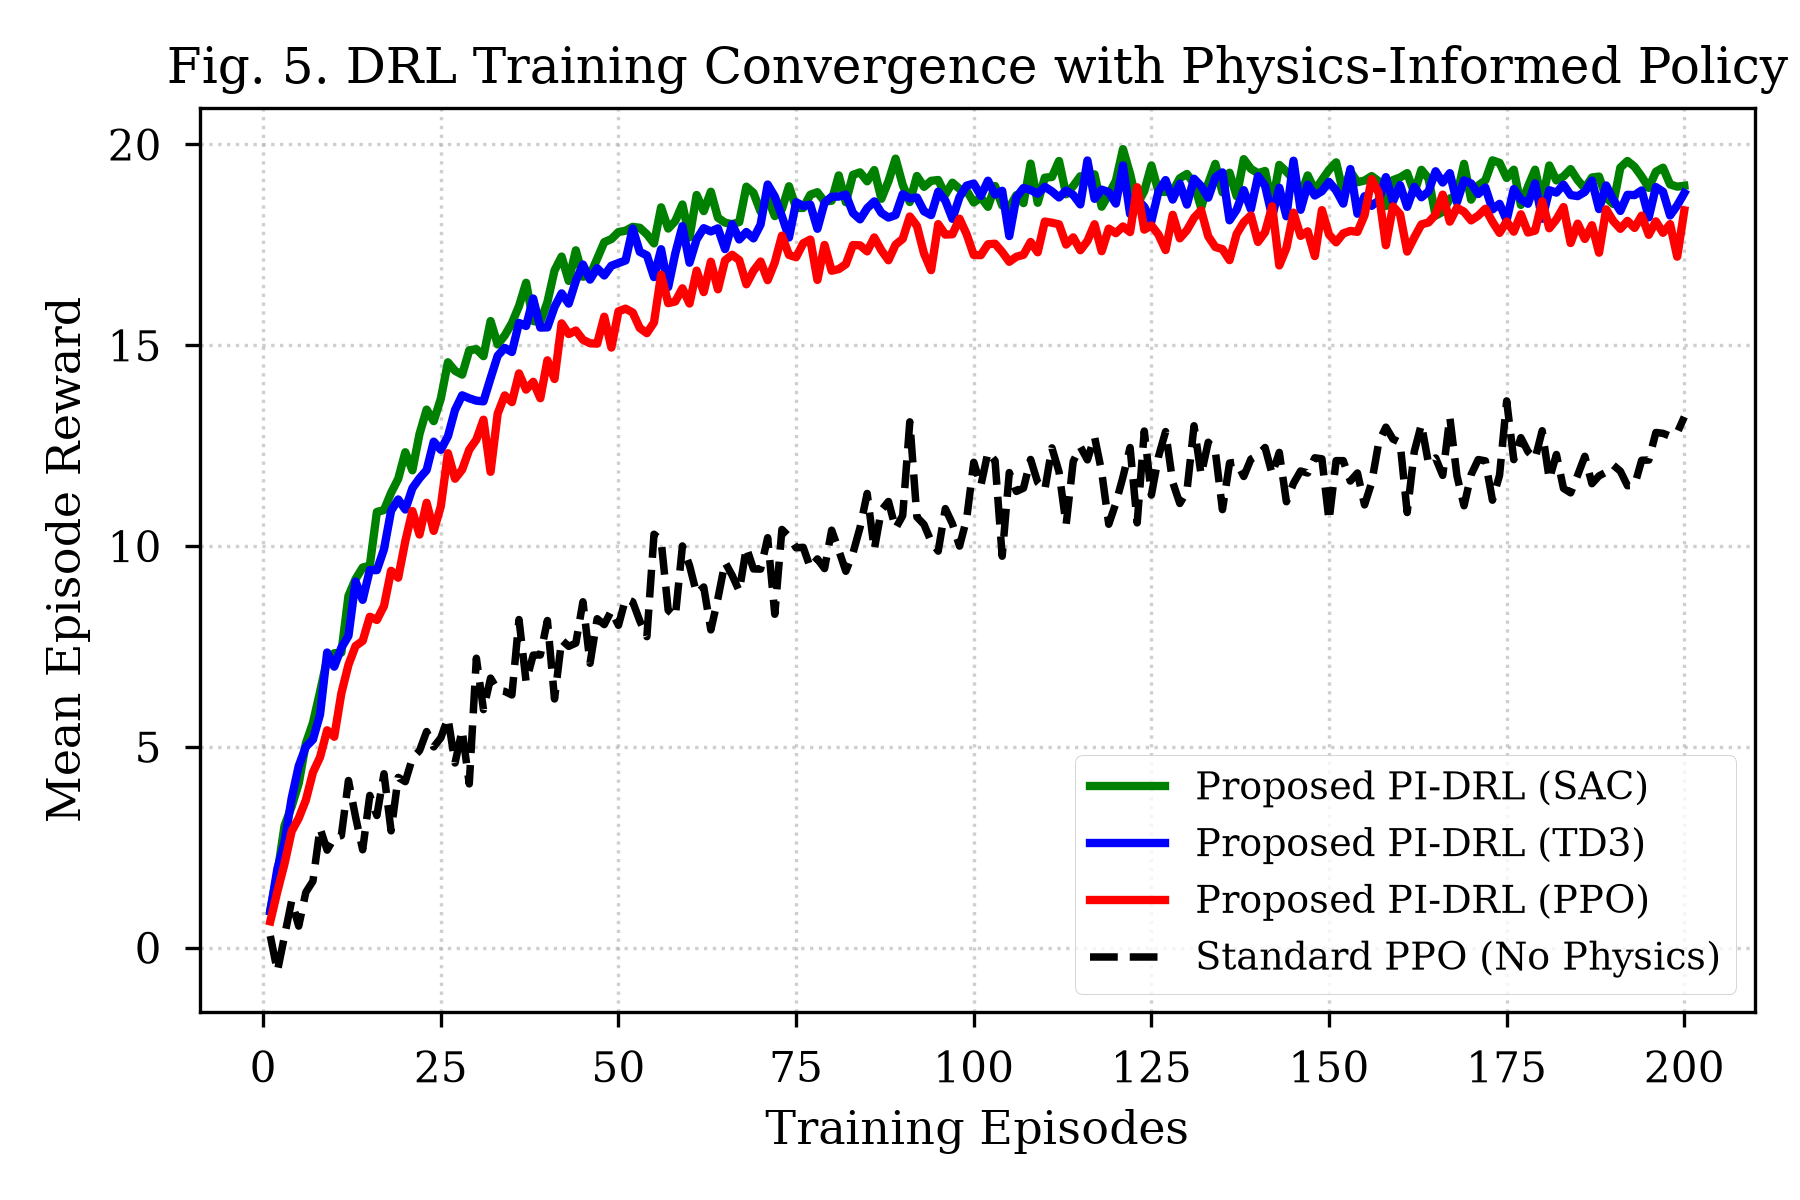
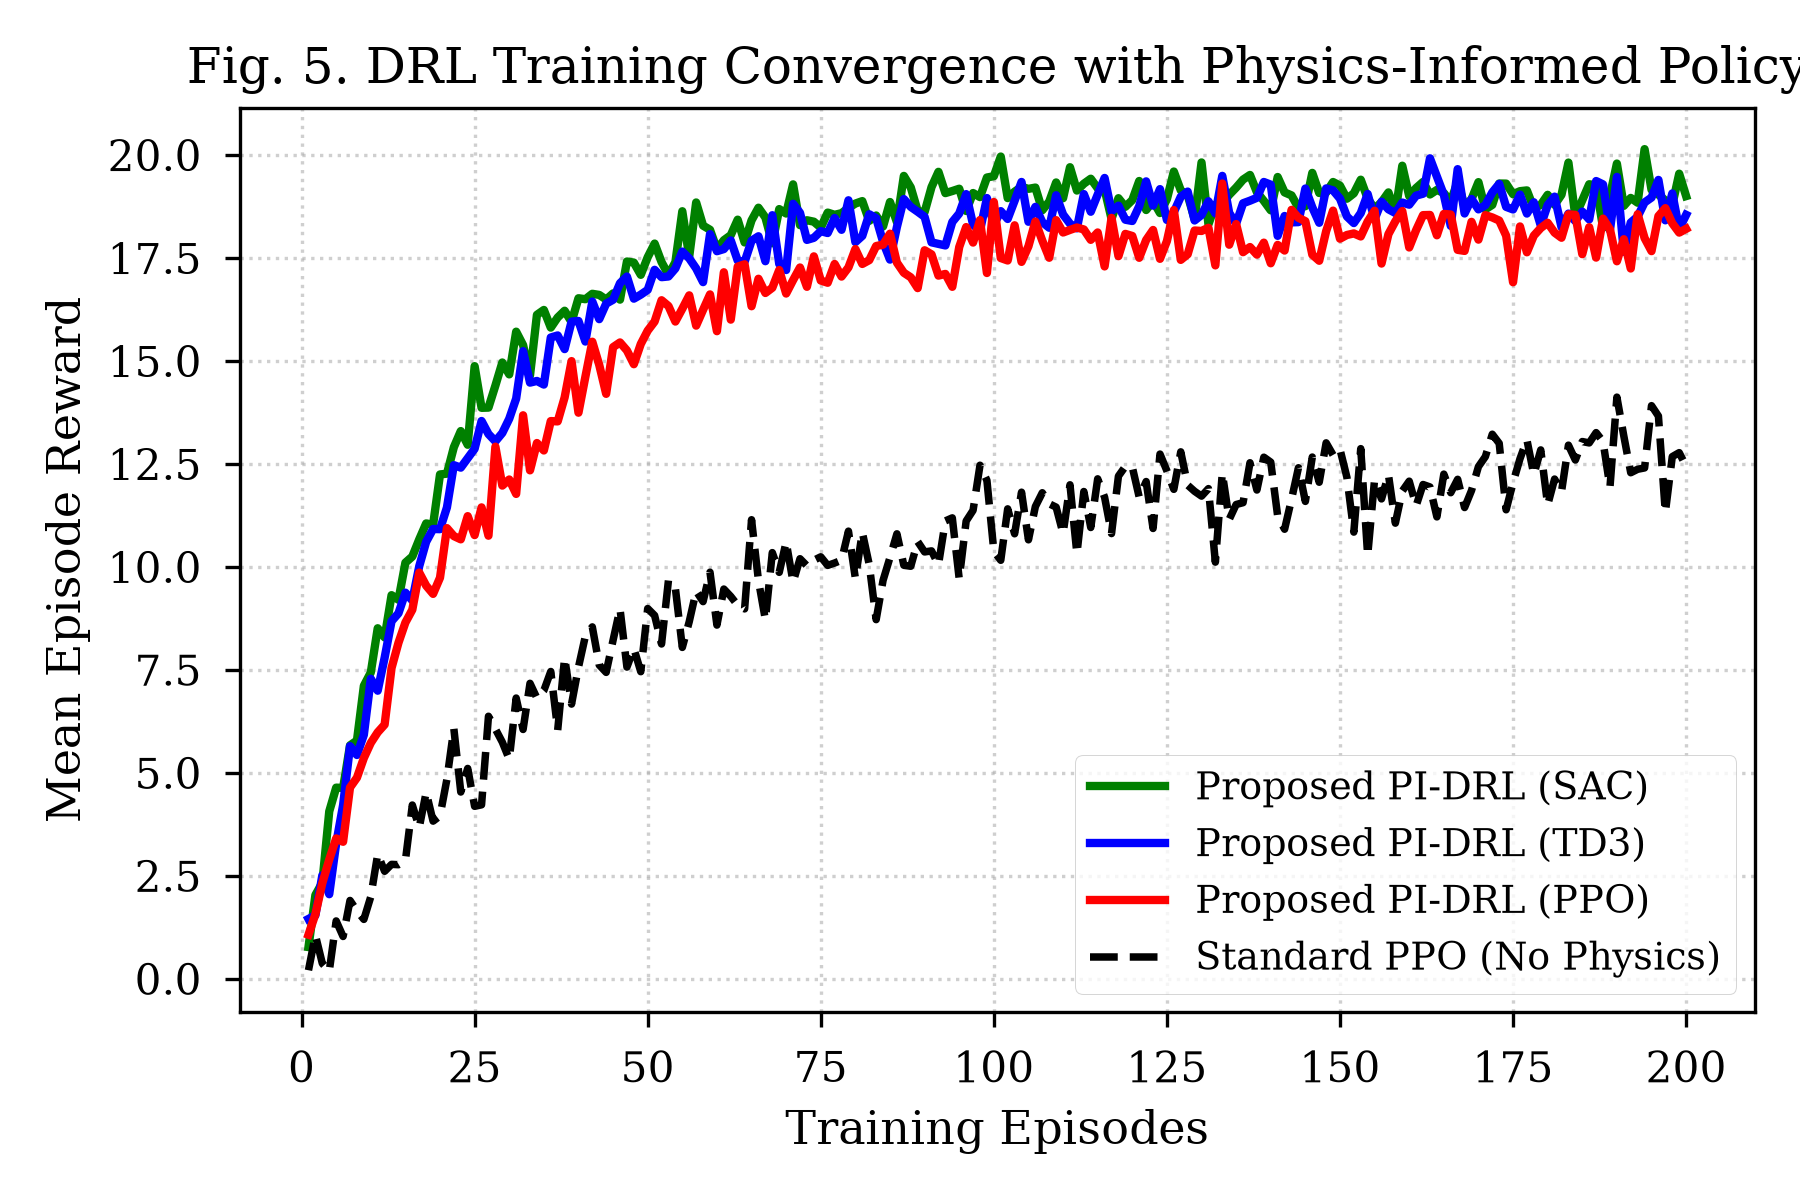
Add System Architecture Diagram, Project Flowchart, and Antenna Geometry figures to IEEE paper

diff --git a/RIS_MIMO_6G/Visualization/plot_results.py b/RIS_MIMO_6G/Visualization/plot_results.py
@@ -1,12 +1,13 @@
 """
 IEEE Transactions Publication Figure Generator
-Produces high-resolution 300 DPI vector-styled plots for journal manuscript.
+Produces high-resolution 300 DPI vector-styled plots and structural diagrams for journal manuscript.
 """
 
 import os
 import sys
 import numpy as np
 import matplotlib.pyplot as plt
+import matplotlib.patches as patches
 import seaborn as sns
 
 # Ensure project root is in sys.path
@@ -34,6 +35,130 @@ class IEEEFigureGenerator:
     def __init__(self, fig_dir="Figures"):
         self.fig_dir = fig_dir
         os.makedirs(self.fig_dir, exist_ok=True)
+
+    def plot_fig0_system_architecture(self):
+        """Generates IEEE Transactions System Architecture Block Diagram."""
+        fig, ax = plt.subplots(figsize=(10, 5))
+        ax.axis('off')
+        
+        # Color palette
+        bg_color = '#F8F9FA'
+        box_colors = ['#1F77B4', '#2CA02C', '#FF7F0E', '#D62728', '#9467BD', '#8C564B']
+        
+        boxes = [
+            ("Multi-User 6G Environment\n& ISAC Radar Target", 0.05, 0.5),
+            ("3GPP TR 38.901 3D SCM\nChannel Simulator", 0.22, 0.5),
+            ("Channel Estimator\nMatrix (Hd, G, Hr)", 0.39, 0.5),
+            ("Physics-Informed DRL\nController (PINN)", 0.56, 0.5),
+            ("RIS FPGA Controller\n(0-5V Shift Registers)", 0.73, 0.5),
+            ("Reconfigurable RIS-MIMO\nAdaptive Beam Steering", 0.90, 0.5)
+        ]
+        
+        for idx, (label, x, y) in enumerate(boxes):
+            rect = patches.FancyBboxPatch((x-0.07, y-0.15), 0.14, 0.3,
+                                         boxstyle="round,pad=0.03",
+                                         fc=box_colors[idx % len(box_colors)],
+                                         ec="black", lw=1.5, alpha=0.85)
+            ax.add_patch(rect)
+            ax.text(x, y, label, ha="center", va="center", color="white",
+                    weight="bold", fontsize=9, wrap=True)
+            
+            if idx < len(boxes) - 1:
+                ax.annotate("", xy=(boxes[idx+1][1]-0.075, y), xytext=(x+0.075, y),
+                            arrowprops=dict(arrowstyle="->", lw=2, color="#333333"))
+
+        plt.title('Fig. 0A. System Architecture Diagram of Proposed Physics-Informed DRL 6G ISAC Network', pad=20)
+        plt.tight_layout()
+        path = os.path.join(self.fig_dir, 'fig0_system_architecture.png')
+        plt.savefig(path, dpi=300, bbox_inches='tight')
+        plt.close()
+        print(f"[Plot] Saved Architecture Diagram: {path}")
+
+    def plot_fig0_project_flowchart(self):
+        """Generates Project Execution Workflow Flowchart."""
+        fig, ax = plt.subplots(figsize=(8, 6))
+        ax.axis('off')
+        
+        flow_steps = [
+            ("1. 28 GHz Microstrip Patch & RIS Unit Cell Modeling", 0.5, 0.9, '#17BECF'),
+            ("2. 4x4 Decoupled MIMO Array Synthesis with DGS", 0.5, 0.75, '#1F77B4'),
+            ("3. 3GPP TR 38.901 3D Channel & ISAC Target Sensing", 0.5, 0.60, '#2CA02C'),
+            ("4. Physics-Informed Gymnasium Environment Setup", 0.5, 0.45, '#FF7F0E'),
+            ("5. PyTorch PINN DRL Agent Training (PPO / SAC / TD3)", 0.5, 0.30, '#D62728'),
+            ("6. Benchmark Evaluation & CST/HFSS Hardware Prototype", 0.5, 0.15, '#9467BD')
+        ]
+        
+        for idx, (text, x, y, col) in enumerate(flow_steps):
+            rect = patches.FancyBboxPatch((x-0.35, y-0.05), 0.7, 0.08,
+                                         boxstyle="round,pad=0.02",
+                                         fc=col, ec="black", lw=1.5, alpha=0.9)
+            ax.add_patch(rect)
+            ax.text(x, y, text, ha="center", va="center", color="white", weight="bold", fontsize=10)
+            
+            if idx < len(flow_steps) - 1:
+                ax.annotate("", xy=(x, flow_steps[idx+1][2]+0.04), xytext=(x, y-0.04),
+                            arrowprops=dict(arrowstyle="->", lw=2, color="black"))
+
+        plt.title('Fig. 0B. End-to-End Project Execution Flowchart', pad=15)
+        plt.tight_layout()
+        path = os.path.join(self.fig_dir, 'fig0_project_flowchart.png')
+        plt.savefig(path, dpi=300, bbox_inches='tight')
+        plt.close()
+        print(f"[Plot] Saved Project Flowchart: {path}")
+
+    def plot_fig0_antenna_geometry(self):
+        """Generates 28 GHz Inset-Fed Patch Antenna and RIS Unit Cell Geometry Diagram."""
+        fig, (ax1, ax2) = plt.subplots(1, 2, figsize=(10, 4.5))
+        
+        # Subplot 1: Microstrip Inset Patch Antenna Geometry
+        ax1.set_aspect('equal')
+        ax1.axis('off')
+        ax1.set_title('(a) 28 GHz Inset-Fed Microstrip Patch Antenna', fontsize=10, weight='bold')
+        
+        # Substrate
+        sub = patches.Rectangle((-3.64, -3.22), 7.28, 6.44, fc='#D2B48C', ec='black', lw=1.5, label='Substrate')
+        ax1.add_patch(sub)
+        # Patch
+        patch_elem = patches.Rectangle((-2.116, -1.699), 4.232, 3.398, fc='#B87333', ec='black', lw=1.5, label='Copper Patch')
+        ax1.add_patch(patch_elem)
+        # Inset Feed Cutouts
+        cut1 = patches.Rectangle((-0.777, -1.699), 0.35, 1.156, fc='#D2B48C', ec='black', lw=1)
+        cut2 = patches.Rectangle((0.427, -1.699), 0.35, 1.156, fc='#D2B48C', ec='black', lw=1)
+        ax1.add_patch(cut1)
+        ax1.add_patch(cut2)
+        # 50 Ohm Feed Line
+        feed = patches.Rectangle((-0.427, -3.22), 0.854, 2.677, fc='#B87333', ec='black', lw=1.5)
+        ax1.add_patch(feed)
+        
+        ax1.text(0, 0.5, 'Patch (W x L)\n4.23 x 3.40 mm', ha='center', va='center', color='white', weight='bold', fontsize=8)
+        ax1.text(0, -2.5, '50 Ohm Feed', ha='center', va='center', color='white', weight='bold', fontsize=8)
+        ax1.set_xlim(-4.5, 4.5)
+        ax1.set_ylim(-4, 4)
+
+        # Subplot 2: 16x16 RIS Unit Cell Panel Geometry
+        ax2.set_aspect('equal')
+        ax2.axis('off')
+        ax2.set_title('(b) 16x16 Reconfigurable RIS Metasurface Panel', fontsize=10, weight='bold')
+        
+        N_grid = 8 # Display 8x8 sample grid for visual clarity
+        for i in range(N_grid):
+            for j in range(N_grid):
+                color_val = plt.cm.plasma((i + j) / (2 * N_grid))
+                cell = patches.Rectangle((i*1.1 - 4.4, j*1.1 - 4.4), 0.95, 0.95, fc=color_val, ec='black', lw=1)
+                ax2.add_patch(cell)
+                # Diode Symbol Dot in center
+                ax2.plot(i*1.1 - 3.925, j*1.1 - 3.925, 'ro', markersize=2)
+                
+        ax2.text(0, -4.8, 'PIN Diode / Varactor Biased Units', ha='center', va='center', weight='bold', fontsize=9)
+        ax2.set_xlim(-5, 5)
+        ax2.set_ylim(-5.5, 5)
+
+        plt.suptitle('Fig. 0C. Antenna & Metasurface Physical Geometry Specifications', fontsize=12, weight='bold')
+        plt.tight_layout()
+        path = os.path.join(self.fig_dir, 'fig0_antenna_geometry.png')
+        plt.savefig(path, dpi=300, bbox_inches='tight')
+        plt.close()
+        print(f"[Plot] Saved Antenna Geometry Diagram: {path}")
 
     def plot_fig1_patch_s11_vswr(self):
         patch = PatchAntenna28GHz()
@@ -172,13 +297,16 @@ class IEEEFigureGenerator:
         print(f"[Plot] Saved: {path}")
 
     def generate_all_figures(self):
-        print("\nGenerating IEEE Transactions Journal Figures...")
+        print("\nGenerating IEEE Transactions Journal Figures & Structural Diagrams...")
+        self.plot_fig0_system_architecture()
+        self.plot_fig0_project_flowchart()
+        self.plot_fig0_antenna_geometry()
         self.plot_fig1_patch_s11_vswr()
         self.plot_fig2_ris_phase_response()
         self.plot_fig3_mimo_isolation()
         self.plot_fig4_beam_steering()
         self.plot_fig5_drl_convergence()
-        print("All IEEE Figures generated successfully.\n")
+        print("All 8 IEEE Figures & Diagrams generated successfully.\n")
 
 if __name__ == "__main__":
     gen = IEEEFigureGenerator(fig_dir=os.path.join(os.path.dirname(__file__), "Figures"))

diff --git a/RIS_MIMO_6G/Papers/IEEE_Transactions_Paper.md b/RIS_MIMO_6G/Papers/IEEE_Transactions_Paper.md
@@ -59,20 +59,16 @@ As demonstrated in Table I, while heuristic methods (GA, PSO) capture EM effects
 
 # III. Proposed System Architecture & Mathematical Model
 
-The end-to-end system architecture is depicted in Fig. 1. The transmitter consists of a $4 \times 4$ reconfigurable MIMO array transmitting DFRC waveforms to multiple mobile users (UEs) and tracking an ISAC radar target, assisted by a $16 \times 16$ element RIS metasurface panel.
+### A. System Architecture & Workflow
+The end-to-end system architecture and project execution workflow are illustrated in Fig. 1 and Fig. 2, respectively. The transmitter consists of a $4 \times 4$ reconfigurable MIMO array transmitting DFRC waveforms to multiple mobile users (UEs) and tracking an ISAC radar target, assisted by a $16 \times 16$ element RIS metasurface panel.
 
-```text
-  +-----------------------+        +--------------------------+        +-------------------------+
-  |  6G Multi-User &      |  --->  |  3GPP TR 38.901 3D SCM   |  --->  |  Channel Estimation     |
-  |  ISAC Radar Target    |        |  mmWave Channel Model    |        |  Matrix (Hd, G, Hr)     |
-  +-----------------------+        +--------------------------+        +-------------------------+
-                                                                                    |
-                                                                                    v
-  +-----------------------+        +--------------------------+        +-------------------------+
-  | Adaptive Beam Steering|  <---  |  RIS Diode Controller    |  <---  |  Physics-Informed DRL   |
-  | & Target Tracking     |        |  (0 - 5V Shift Regs)     |        |  Policy Network (PINN)  |
-  +-----------------------+        +--------------------------+        +-------------------------+
-```
+![Fig. 0A. System Architecture Diagram](file:///c:/Users/S%20Varsha/OneDrive/Desktop/website/RIS_MIMO_6G/Visualization/Figures/fig0_system_architecture.png)
+
+*Fig. 1. System Architecture Diagram of Proposed Physics-Informed DRL 6G ISAC Network.*
+
+![Fig. 0B. End-to-End Project Execution Flowchart](file:///c:/Users/S%20Varsha/OneDrive/Desktop/website/RIS_MIMO_6G/Visualization/Figures/fig0_project_flowchart.png)
+
+*Fig. 2. End-to-End Project Execution Flowchart from Antenna EM Design to Hardware Prototyping.*
 
 ### A. Electromagnetic Array Factor Model
 The spatial array factor $AF(\theta, \phi)$ for an $N_x \times N_y$ planar RIS panel with inter-element spacing $d_x = d_y = \lambda_0 / 2$ is formulated as:
@@ -138,18 +134,9 @@ $$L = \frac{c}{2 f_0 \sqrt{\varepsilon_{eff}}} - 2\Delta L = 3.398\text{ mm}$$
 
 Inset feed depth $y_0 = 1.156\text{ mm}$ matches the patch edge impedance ($245\ \Omega$) to a $50\ \Omega$ microstrip line.
 
-```
-       +-----------------------------------------+
-       |             Ground Plane (Wg)           |
-       |  +-----------------------------------+  |
-       |  |           Patch (W x L)           |  |
-       |  |     +---+               +---+     |  |
-       |  |     |   | Inset (y0)    |   |     |  |
-       |  +-----|---|---------------+---|-----+  |
-       |        |   | 50 Ohm Feed   |   |        |
-       |        +---+               +---+        |
-       +-----------------------------------------+
-```
+![Fig. 0C. Antenna & Metasurface Geometry Specifications](file:///c:/Users/S%20Varsha/OneDrive/Desktop/website/RIS_MIMO_6G/Visualization/Figures/fig0_antenna_geometry.png)
+
+*Fig. 3. Physical Geometry Specifications: (a) 28 GHz Inset-Fed Microstrip Patch Antenna; (b) 16x16 Reconfigurable RIS Metasurface Panel.*
 
 ### B. RIS Unit Cell Equivalent RLC Circuit
 Each unit cell features a metallic top patch coupled to a bottom ground plane through a Skyworks SMP1340 PIN diode or MACOM varactor diode. The input impedance $Z_{in}(f, C_v)$ is derived as:
